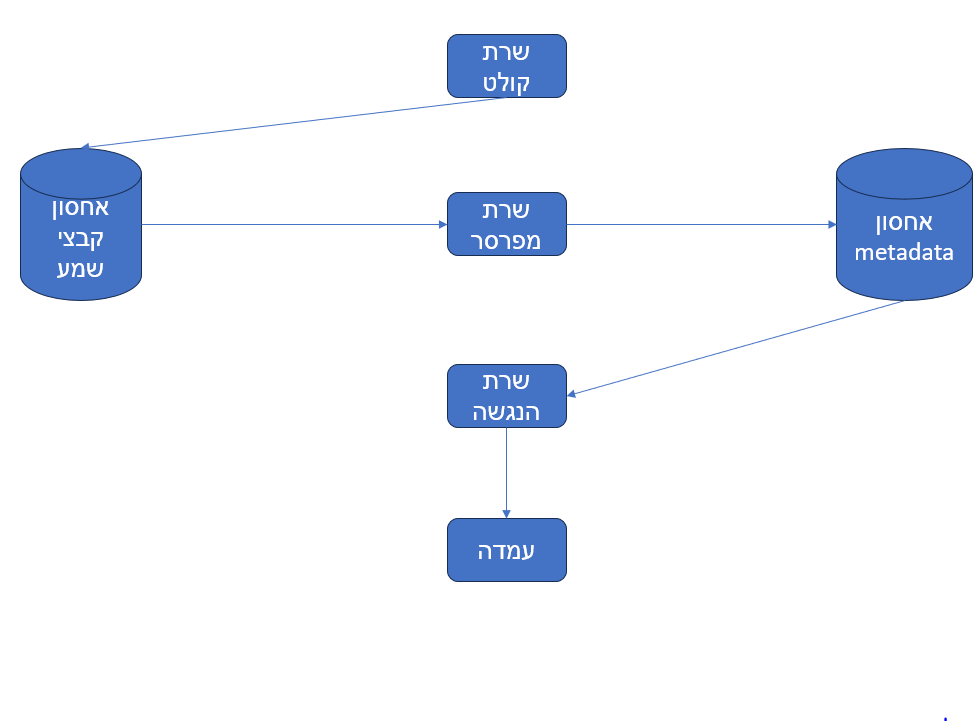
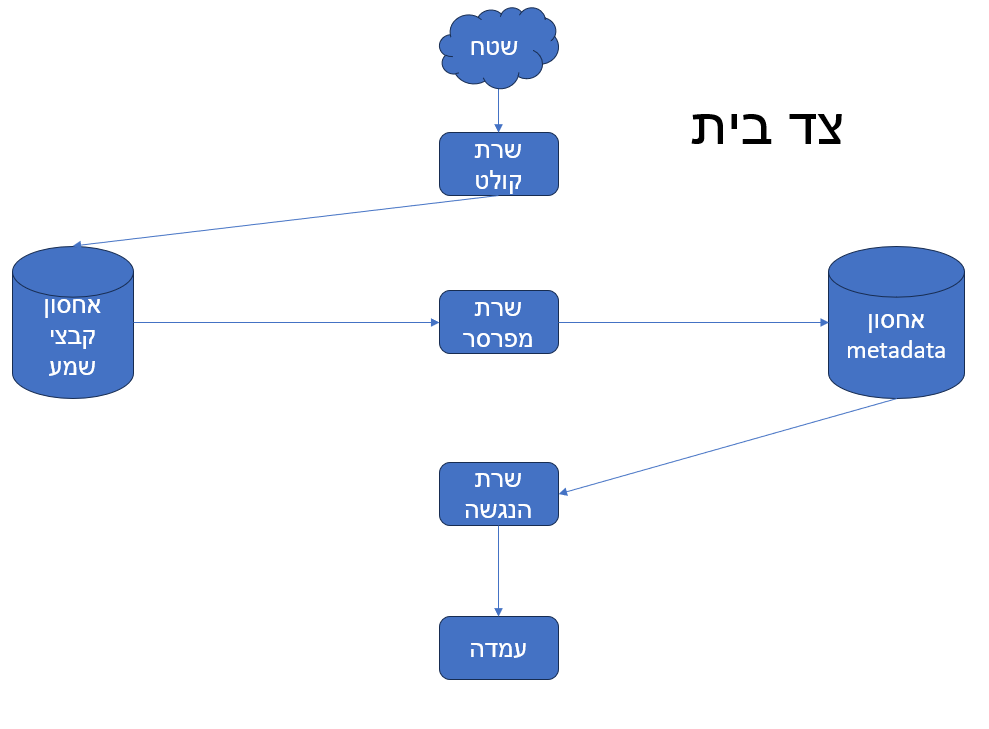
home side diagram

diff --git a/README.md b/README.md
@@ -1,1 +1,1 @@
-![Alt text](./diagram.PNG)
+![Alt text](./diagram.png)
